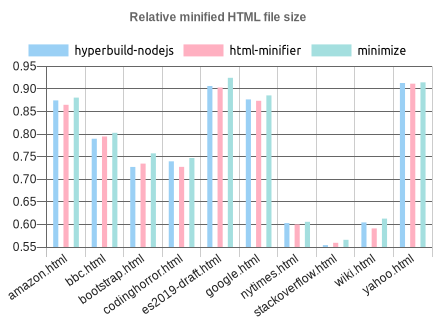
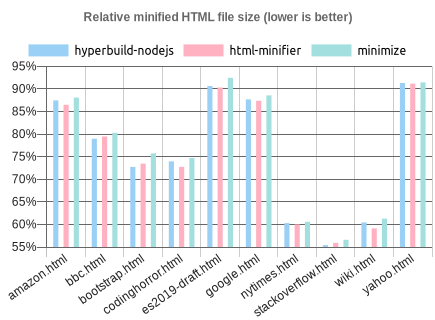
Improve graphs

diff --git a/bench/bench.js b/bench/bench.js
@@ -15,7 +15,7 @@ const tests = fs.readdirSync(testsDir).map(name => ({
 }));
 
 const programs = {
-  'hyperbuild-nodejs': content => hyperbuild.minify(Buffer.from(content)),
+  'hyperbuild-nodejs': content => hyperbuild.minify_in_place(Buffer.from(content)),
   'html-minifier': content => htmlMinifier.minify(content, {
     caseSensitive: false,
     collapseBooleanAttributes: true,
@@ -67,42 +67,44 @@ const colours = [
     borderColor: '#4bc0c0',
   },
 ];
-const renderChart = async (file, title, cfg) => {
-  const chart = new chartjs(435, 320);
-  await chart.drawChart({
-    ...cfg,
-    options: {
-      title: {
-        display: true,
-        text: title,
-      },
-      scales: {
-        xAxes: [{
-          barPercentage: 0.5,
-          gridLines: {
-            color: '#ccc',
-          },
-          ticks: {
-            fontColor: '#222',
-          },
-        }],
-        yAxes: [{
-          gridLines: {
-            color: '#666',
-          },
-          ticks: {
-            fontColor: '#222',
-          },
-        }],
-      },
-      legend: {
-        labels: {
-          fontFamily: 'Ubuntu, sans-serif',
-          fontColor: '#000',
+const chartOptions = (title, displayLegend, yTick = t => t) => ({
+  options: {
+    title: {
+      display: true,
+      text: title,
+    },
+    scales: {
+      xAxes: [{
+        barPercentage: 0.5,
+        gridLines: {
+          color: '#ccc',
         },
+        ticks: {
+          fontColor: '#222',
+        },
+      }],
+      yAxes: [{
+        gridLines: {
+          color: '#666',
+        },
+        ticks: {
+          callback: yTick,
+          fontColor: '#222',
+        },
+      }],
+    },
+    legend: {
+      display: displayLegend,
+      labels: {
+        fontFamily: 'Ubuntu, sans-serif',
+        fontColor: '#000',
       },
     },
-  });
+  },
+});
+const renderChart = async (file, cfg) => {
+  const chart = new chartjs(435, 320);
+  await chart.drawChart(cfg);
   await chart.writeImageToFile('image/png', path.join(__dirname, `${file}.png`));
 };
 
@@ -154,21 +156,21 @@ suite
       count: b.count,
       ops: b.hz,
     })).sort((a, b) => a.hz - b.hz);
-    await renderChart('speed', 'Minification speed', {
+    await renderChart('speed', {
       type: 'bar',
       data: {
         labels: speedResults.map(r => r.name),
         datasets: [{
-          label: 'Operations per second',
           ...colours[0],
           data: speedResults.map(r => r.ops),
         }],
       },
+      ...chartOptions('Operations per second (higher is better)', false),
     });
 
     const testNames = Object.keys(sizes);
     const programNames = Object.keys(programs);
-    await renderChart('minification', 'Relative minified HTML file size', {
+    await renderChart('minification', {
       type: 'bar',
       scaleFontColor: 'red',
       data: {
@@ -176,9 +178,10 @@ suite
         datasets: programNames.map((program, i) => ({
           label: program,
           ...colours[i],
-          data: testNames.map(test => sizes[test][program].relative),
+          data: testNames.map(test => sizes[test][program].relative * 100),
         })),
       },
+      ...chartOptions('Relative minified HTML file size (lower is better)', true, tick => `${tick}%`),
     });
   })
   .run({'async': true});

diff --git a/README.md b/README.md
@@ -15,6 +15,8 @@ Available as:
 
 ## Performance
 
+Speed and effectiveness of Node.js version compared to other JS minifiers.
+
 ![Chart showing speed of HTML minifiers](./bench/speed.png) ![Chart showing effectiveness of HTML minifiers](./bench/minification.png)
 
 ## Usage
